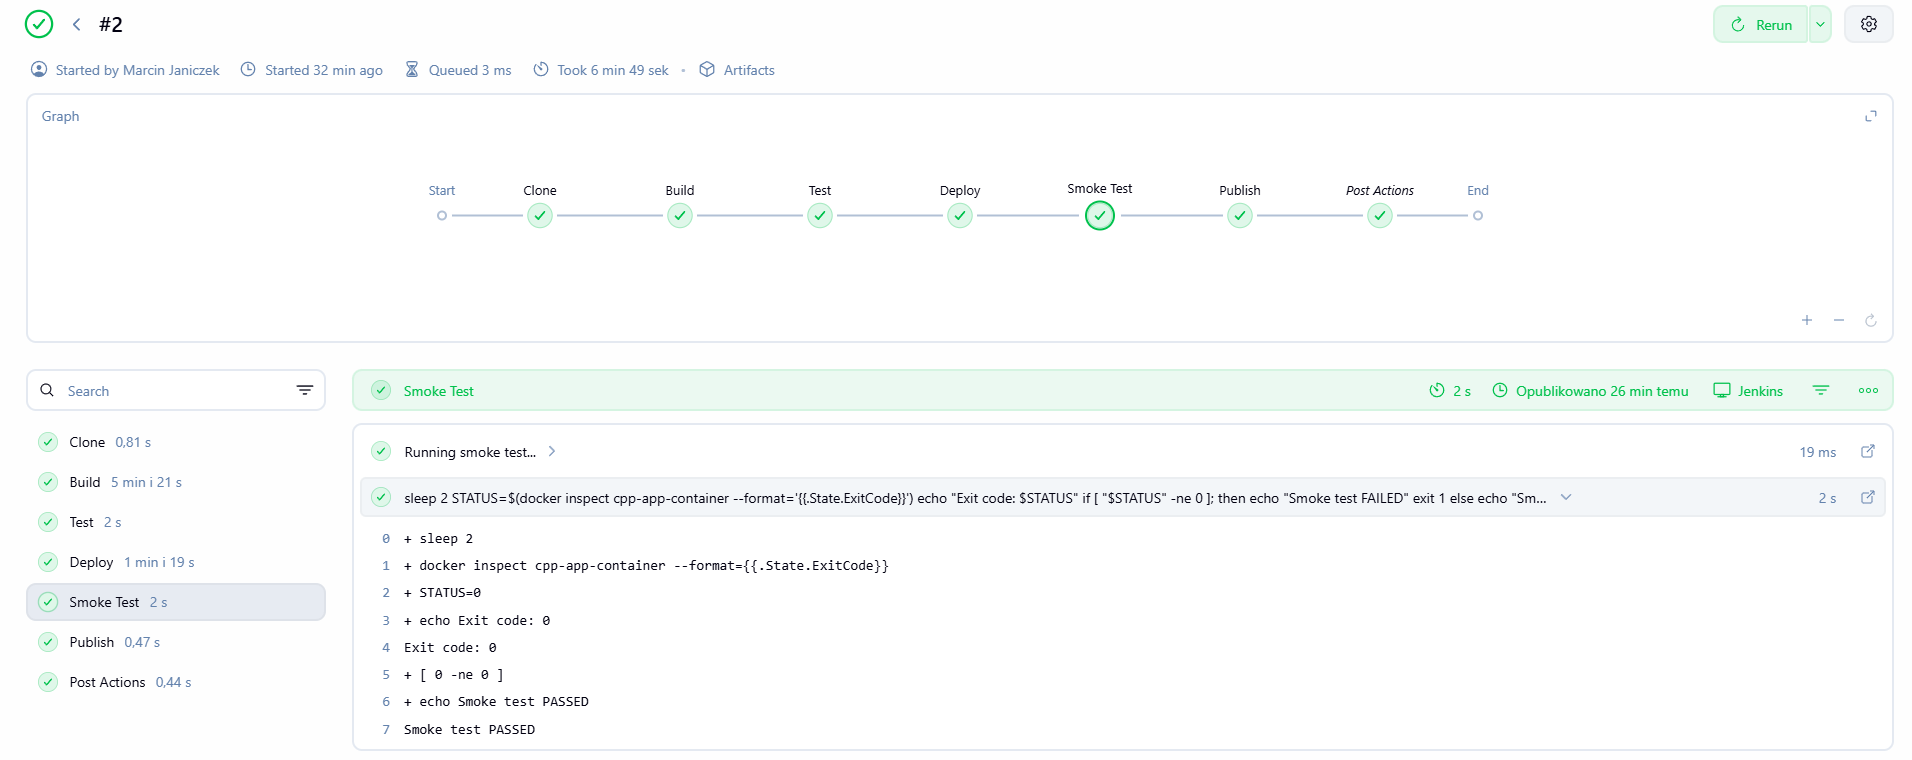
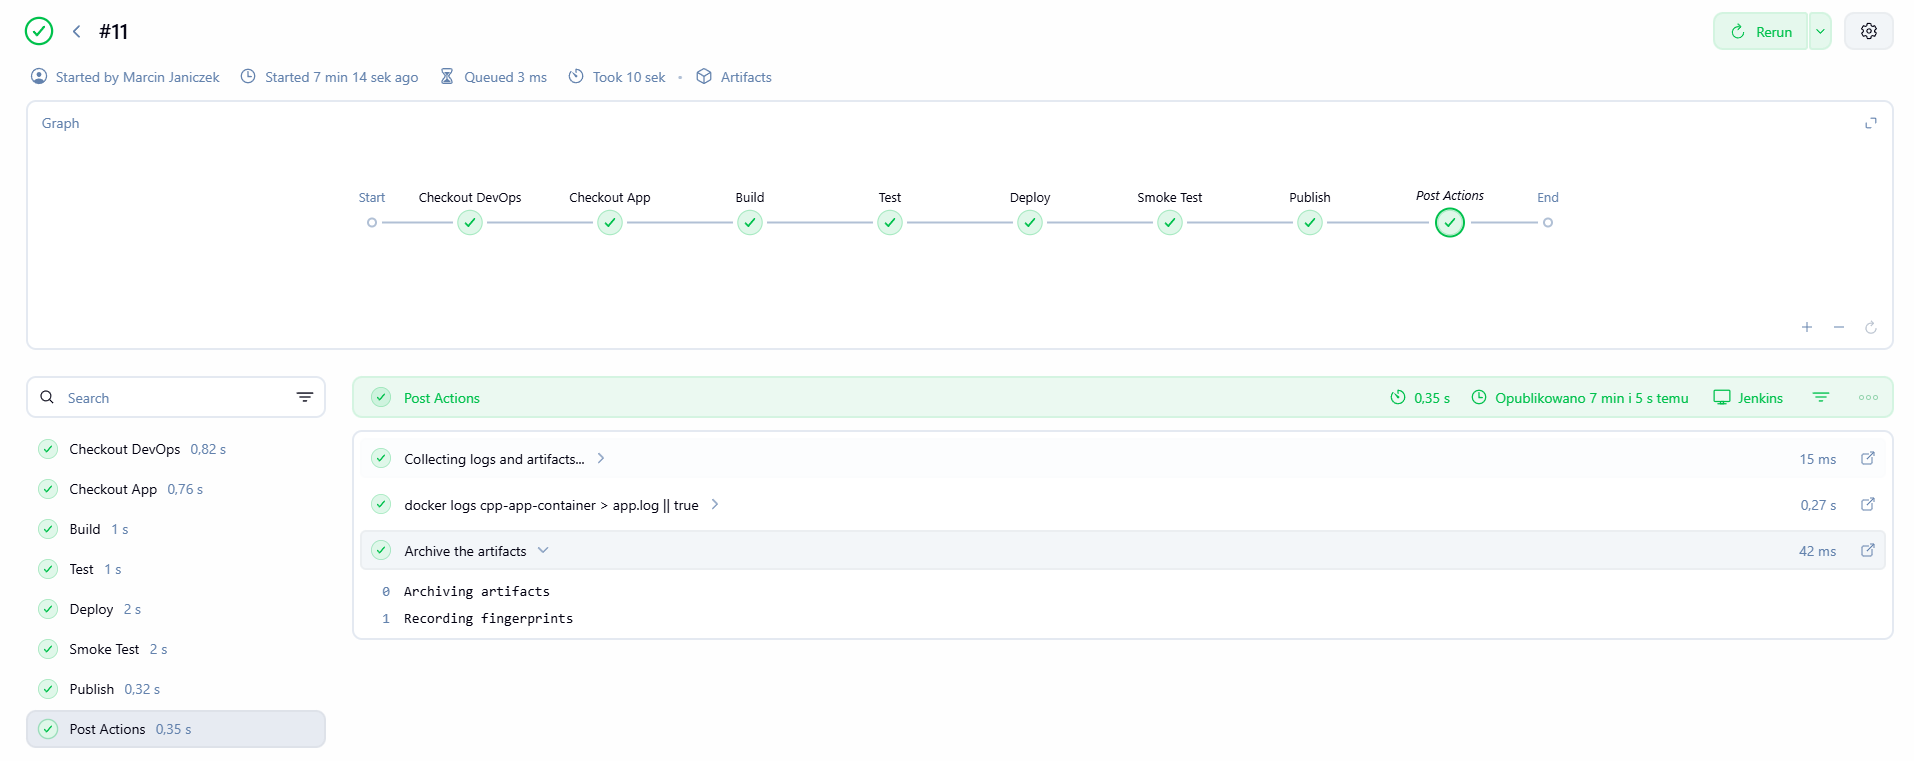
MJ423350 Poprawa w README oraz Jenkinsfile

diff --git a/grupa2/MJ423350/Sprawozdanie6/README.md b/grupa2/MJ423350/Sprawozdanie6/README.md
@@ -57,7 +57,7 @@ RUN apt-get update \
 
 WORKDIR /app
 
-COPY . /app
+COPY app /app
 
 RUN make
 ```
@@ -99,6 +99,7 @@ Zdecydowano się na publikację kontenera Docker jako artefaktu, gdyż działa n
 Do wykonania zadania użyto poniższego pliku Jenkinsfile:
 ```jenkinsfile
 pipeline {
+    pipeline {
     agent any
 
     environment {
@@ -109,46 +110,45 @@ pipeline {
     }
 
     stages {
-        stage('Checkout DevOps (Dockerfile + Jenkinsfile)') {
+        stage('Checkout DevOps') {
             steps {
                 checkout scm
             }
         }
 
-        stage('Checkout App (C/C++ code)') {
+        stage('Checkout App') {
             steps {
-                dir('app') {
+                dir('grupa2/MJ423350/Sprawozdanie6/app') {
                     git url: "${APP_REPO}"
                 }
-            }
-        }
-
-        stage('Clone') {
-            steps {
-                echo 'Cloning repository...'
-                git url: "${APP_REPO}"
             }
         }
 
         stage('Build') {
             steps {
                 echo 'Building (build stage)...'
-                sh 'docker build --target build -t build-image .'
+                dir('grupa2/MJ423350/Sprawozdanie6') {
+                    sh 'docker build --target build -t build-image .'
+                }
             }
         }
 
         stage('Test') {
             steps {
                 echo 'Running tests (test stage)...'
-                sh 'docker build --target test -t test-image .'
-                sh 'docker run --rm test-image > test.log'
+                dir('grupa2/MJ423350/Sprawozdanie6') {
+                    sh 'docker build --target test -t test-image .'
+                    sh 'docker run --rm test-image > test.log'
+                }
             }
         }
 
         stage('Deploy') {
             steps {
                 echo 'Building deploy image...'
-                sh "docker build --target deploy -t ${IMAGE_NAME}:${VERSION} ."
+                dir('grupa2/MJ423350/Sprawozdanie6') {
+                    sh "docker build --target deploy -t ${IMAGE_NAME}:${VERSION} ."
+                }
                 
                 echo 'Deploying container...'
                 sh "docker rm -f ${CONTAINER_NAME} || true"
